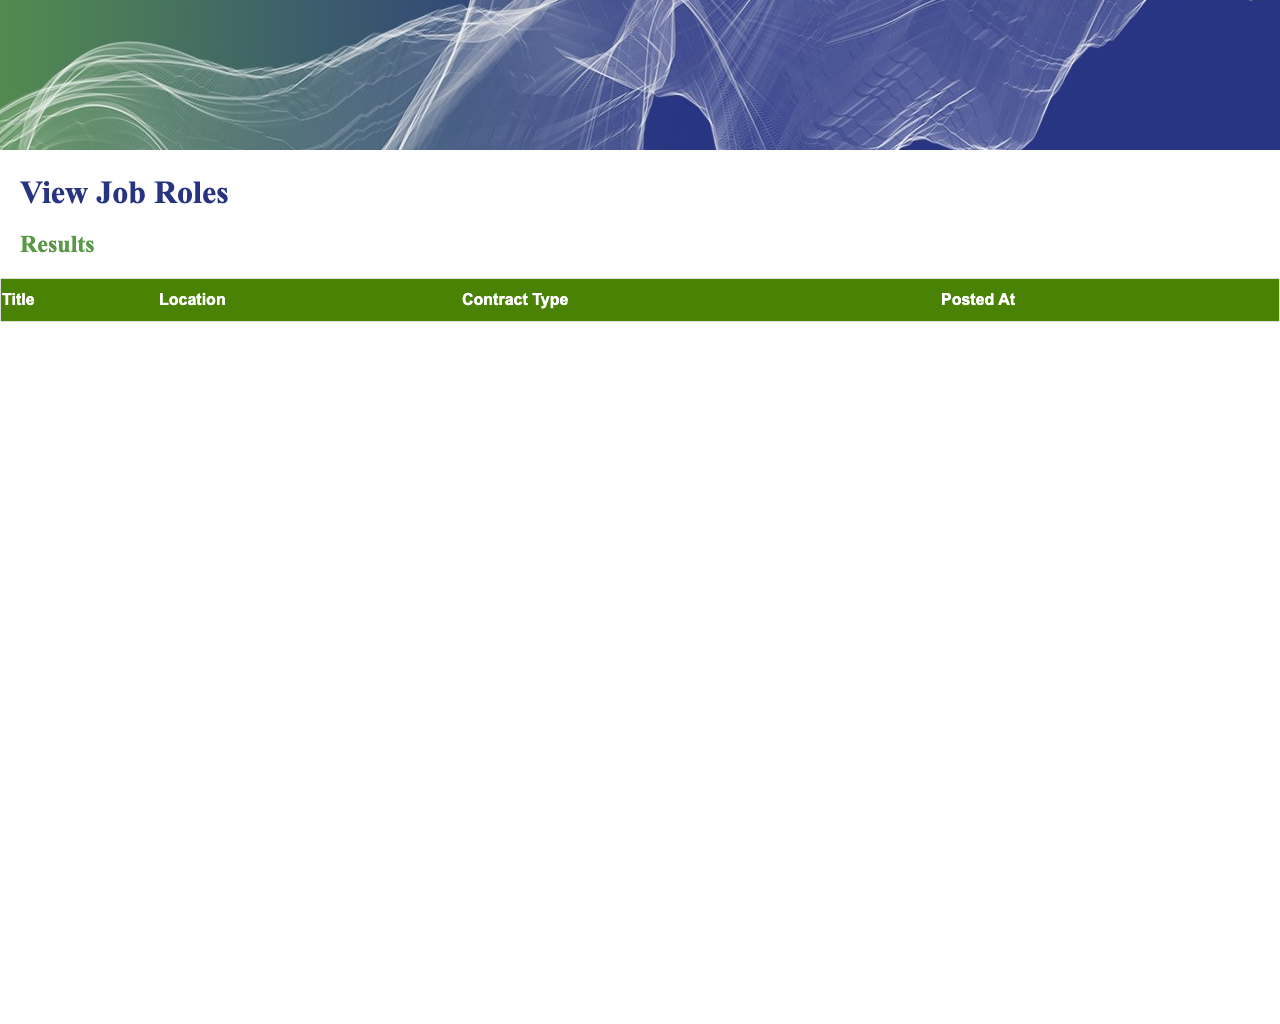
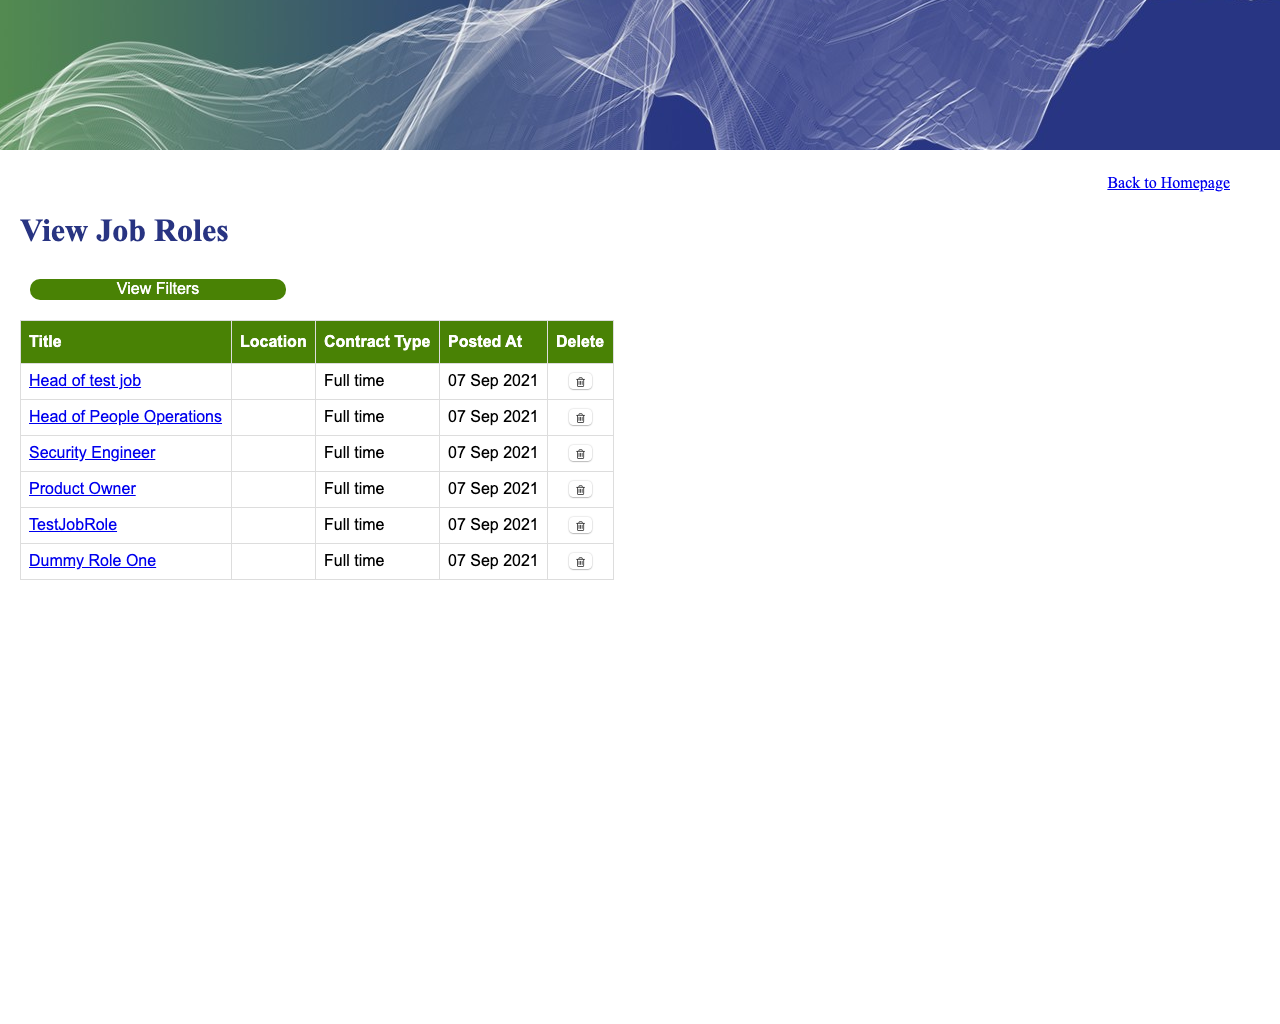
Added, checked and fixed errors for Unit, Selenium and Accessibility tests

Changed region(s): [[0.0, 0.1562, 1.0, 0.5625], [0.875, 0.1562, 0.9688, 0.1875]]

diff --git a/app/test-selenium/view-job-roles.test.js b/app/test-selenium/view-job-roles.test.js
@@ -6,6 +6,46 @@ const script = require('jest');
  
 const url = 'http://localhost:7999/viewjobroles'
 
+describe('Checkout Deleting Function in Job Roles', function () {
+    let driver;
+
+    before(async function() {
+        driver = await new Builder().forBrowser('chrome').build();
+        await driver.get(url);
+    });
+
+    it('Check Delete button gives a popup warning for "Head of People Operations"', async function(){ 
+        await driver.findElement(By.xpath('//*[@id="jobRolesTable"]/tbody/tr[2]/td[5]/button')).click();
+        let popupText = await driver.switchTo().alert().getText();
+        assert.equal(popupText, 'Are you sure you would like to delete the Head of People Operations role?'); 
+    });
+
+    it('Check cancelling Delete button gives a confirmation message for "Head of People Operations"', async function(){ 
+        await driver.switchTo().alert().dismiss();
+        let innerText = await driver.findElement(By.id('deleteconfirmation')).getText(); 	
+        assert.equal(innerText, 'Head of People Operations will not be deleted'); 
+    });
+
+    it('Check "Head of test job" is the first row', async function(){ 
+        let innerText = await driver.findElement(By.xpath('//*[@id="jobRolesTable"]/tbody/tr[1]/td[1]/a')).getText(); 	
+        assert.equal(innerText, 'Head of test job'); 
+    });
+
+    it('Check Delete button gives a popup warning for "Head of test job"', async function(){ 
+        await driver.findElement(By.xpath('//*[@id="jobRolesTable"]/tbody/tr[1]/td[5]/button')).click();
+        let popupText = await driver.switchTo().alert().getText();
+        assert.equal(popupText, 'Are you sure you would like to delete the Head of test job role?'); 
+    });
+
+    it('Check that "Head of test job" is no longer in the table', async function(){ 
+        await driver.switchTo().alert().accept();
+        let innerText = await driver.findElement(By.xpath('//*[@id="jobRolesTable"]/tbody/tr[1]/td[1]/a')).getText(); 	
+        assert.equal(innerText, 'Head of People Operations'); 
+    });
+
+    after(() => driver && driver.quit());
+})
+
 describe('Checkout View Job Roles', function () {
     let driver;
 

diff --git a/app/unit-test/job-role-test.test.js b/app/unit-test/job-role-test.test.js
@@ -3,7 +3,8 @@ const express = require("express");
 const app = express();
 
 const mockAxios = {
-    get: jest.fn()
+    get: jest.fn(),
+    delete: jest.fn()
 };
 
 const axios = jest.mock("axios", () => {
@@ -28,11 +29,10 @@ describe("Test the job role route is calling the correct service function", () =
 })
 
 describe("Test the job role delete route is calling the correct service function", () => {
-  test("Route calls view-job-roles, getJobRoles and deleteJobRole", async () => {
+  test("Route calls view-job-roles and deleteJobRole", async () => {
     request(app)
-      .get("/:jobRoleID")
+      .get("/removerole/:jobId")
       .expect("view-job-roles")
-      .expect(getJobRolesService.getJobRoles())
       .expect(getJobRolesService.deleteJobRole());
   });
 })
@@ -136,15 +136,15 @@ describe("Test job role service - delete", () => {
       });
       let results = await deleteJobRole(1);
       expect(results).toBe(expected.data);
-      expect(mockAxios.delete).toHaveBeenCalledWith('http://localhost:8080/remove-role/:id1');
+      expect(mockAxios.delete).toHaveBeenCalledWith('http://localhost:8080/remove-role/1');
   });
 
   test("The results should be undefined", async () => {
       mockAxios.delete.mockImplementation(() => {
           return Promise.reject();
       });
-      let results = await deleteJobRole(7);
+      let results = await deleteJobRole(2);
       expect(results).toBe(undefined);
-      expect(mockAxios.delete).toHaveBeenCalledWith('http://localhost:8080/remove-role/:id7');
+      expect(mockAxios.delete).toHaveBeenCalledWith('http://localhost:8080/remove-role/2');
   });
 });

diff --git a/app/css/mainstyle.css b/app/css/mainstyle.css
@@ -277,7 +277,7 @@ input[type=submit]:hover {
   padding-top: 12px;
   padding-bottom: 12px;
   text-align: left;
-  background-color: #04AA6D;
+  background-color: #498205;
   color: white;
 }
 
@@ -287,17 +287,17 @@ input[type=submit]:hover {
   margin: 30px;
   margin-bottom: 0px;
   width:20%;
-  background-color: #04AA6D;
+  background-color: #498205;
   border-radius: 12px;
   border: none;
   font-size: 16px;
   color: white;
 }
-#filterbutton:hover {background-color: #059762}
+#filterbutton:hover {background-color: #3b6804;}
 
 #clearallbutton{
   font-family: Arial, Helvetica, sans-serif;
-  background-color: #04AA6D;
+  background-color: #498205;
   border: none;
   font-size: 16px;
   color: white;
@@ -306,7 +306,7 @@ input[type=submit]:hover {
   margin-left: 10px;
   border-radius: 12px;
 }
-#clearallbutton:hover {background-color: #059762}
+#clearallbutton:hover {background-color: #3b6804;}
 
 
 #noresults {
@@ -315,12 +315,17 @@ input[type=submit]:hover {
 }
 
 .homepage-link {
-  margin-top: 10px;
-  margin-bottom: 10px;
-  margin-right: 10px;
-  margin-left: 10px;
+  margin-top: 20px;
+  margin-bottom: 20px;
+  margin-right: 50px;
+  margin-left: 20px;
   text-align: right;
 }
+
+.icon {
+  position: relative;
+}
+
 
 @media screen and (max-width: 600px) {
   .green-table thead {

diff --git a/app/services/job-role-service.js b/app/services/job-role-service.js
@@ -8,20 +8,18 @@ exports.getJobRoles = async () => {
         })
         .catch(error => {
             console.log(error);
-            //res.render('error-page', { error_code: error.response.data} )
         });
     return results;
 }
 
-exports.deleteJobRole = async (jobRoleID) => {
+exports.deleteJobRole = async (jobId) => {
     let results;
-    await axios.delete('http://localhost:8080/remove-role/:id'+encodeURIComponent(jobRoleID))
+    await axios.delete('http://localhost:8080/remove-role/' + jobId)
         .then(response => {
             results = response.data;
         })
         .catch(error => {
             console.log(error);
-            //res.render('error-page', { error_code: error.response.data} )
         });
     return results;
 }

diff --git a/app/routes/job-role-route.js b/app/routes/job-role-route.js
@@ -6,9 +6,8 @@ router.get("/", async (req, res) => {
     res.render('view-job-roles', {job_roles: await jobRoleService.getJobRoles()});
 });
 
-router.delete("remove-role/:jobRoleID", async (req, res) => {
-    res.render('view-job-roles', {  job_roles: await jobRoleService.getJobRoles(), 
-                                    delete_job_role: await jobRoleService.deleteJobRole(req.params.jobRoleID)});
+router.delete("/removerole/:jobId", async (req, res) => {
+    res.render('view-job-roles', {delete_job_role: await jobRoleService.deleteJobRole(req.params.jobId)});
 })
 
 module.exports = router
